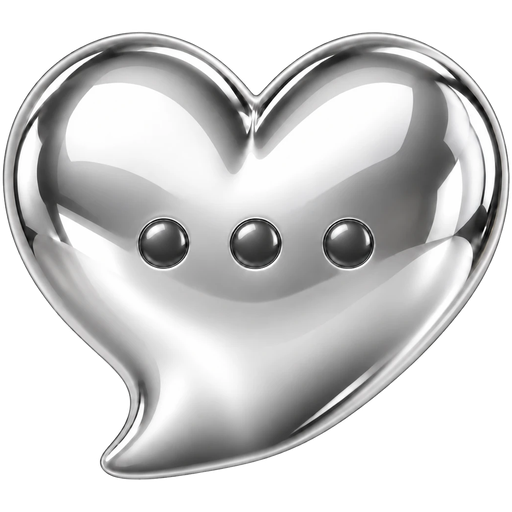
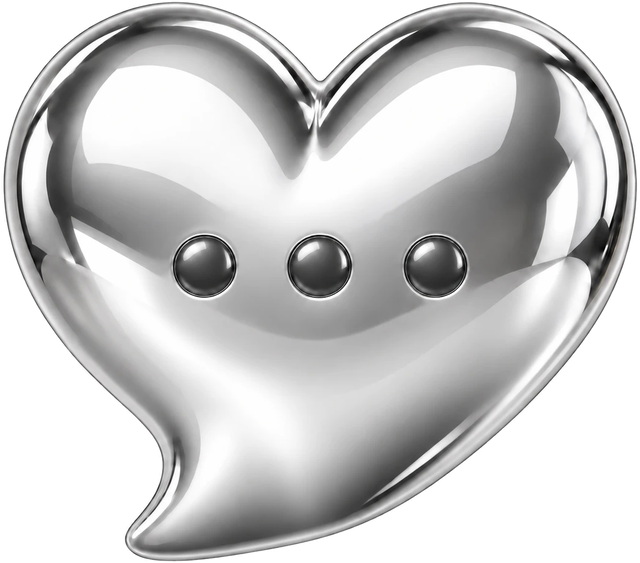
은연 심볼 크기를 워드마크에 맞춤
- PNG를 여백 없이 타이트 크롭 (640×563)
- 고정 width/height 대신 CSS로 height:clamp(30px,4.3vw,43px)
  — .bname의 clamp(28px,4vw,40px)와 같이 움직인다

diff --git a/style.css b/style.css
@@ -340,6 +340,7 @@ body{padding-bottom:78px}
 /* ── 서비스 브랜드 락업 ── */
 .brandlock{display:flex; align-items:center; gap:14px; margin-bottom:18px}
 .brandlock .bsym{flex:none; display:grid; place-items:center}
+.brandlock .bsym img{display:block; width:auto; height:clamp(30px,4.3vw,43px)}
 .brandlock .bname{font-size:clamp(28px,4vw,40px); font-weight:700; letter-spacing:normal; color:var(--ink); line-height:1}
 .brandlock .bname.thin{font-weight:300; letter-spacing:.02em; color:#4E5A68}
 .brandlock .btag{font-size:13.5px; color:var(--grey); margin-top:6px; letter-spacing:normal}

diff --git a/eunyeon.html b/eunyeon.html
@@ -38,7 +38,7 @@
   <section class="svc-hero soft">
     <div class="wrap">
       <div class="brandlock">
-        <span class="bsym"><img src="eunyeon-symbol-3d.png" alt="은연 심볼" width="56" height="56" decoding="async"></span>
+        <span class="bsym"><img src="eunyeon-symbol-3d.png" alt="은연 심볼" decoding="async"></span>
         <div>
           <div class="bname">은연</div>
           <div class="btag">취향이 닿는 대화</div>
